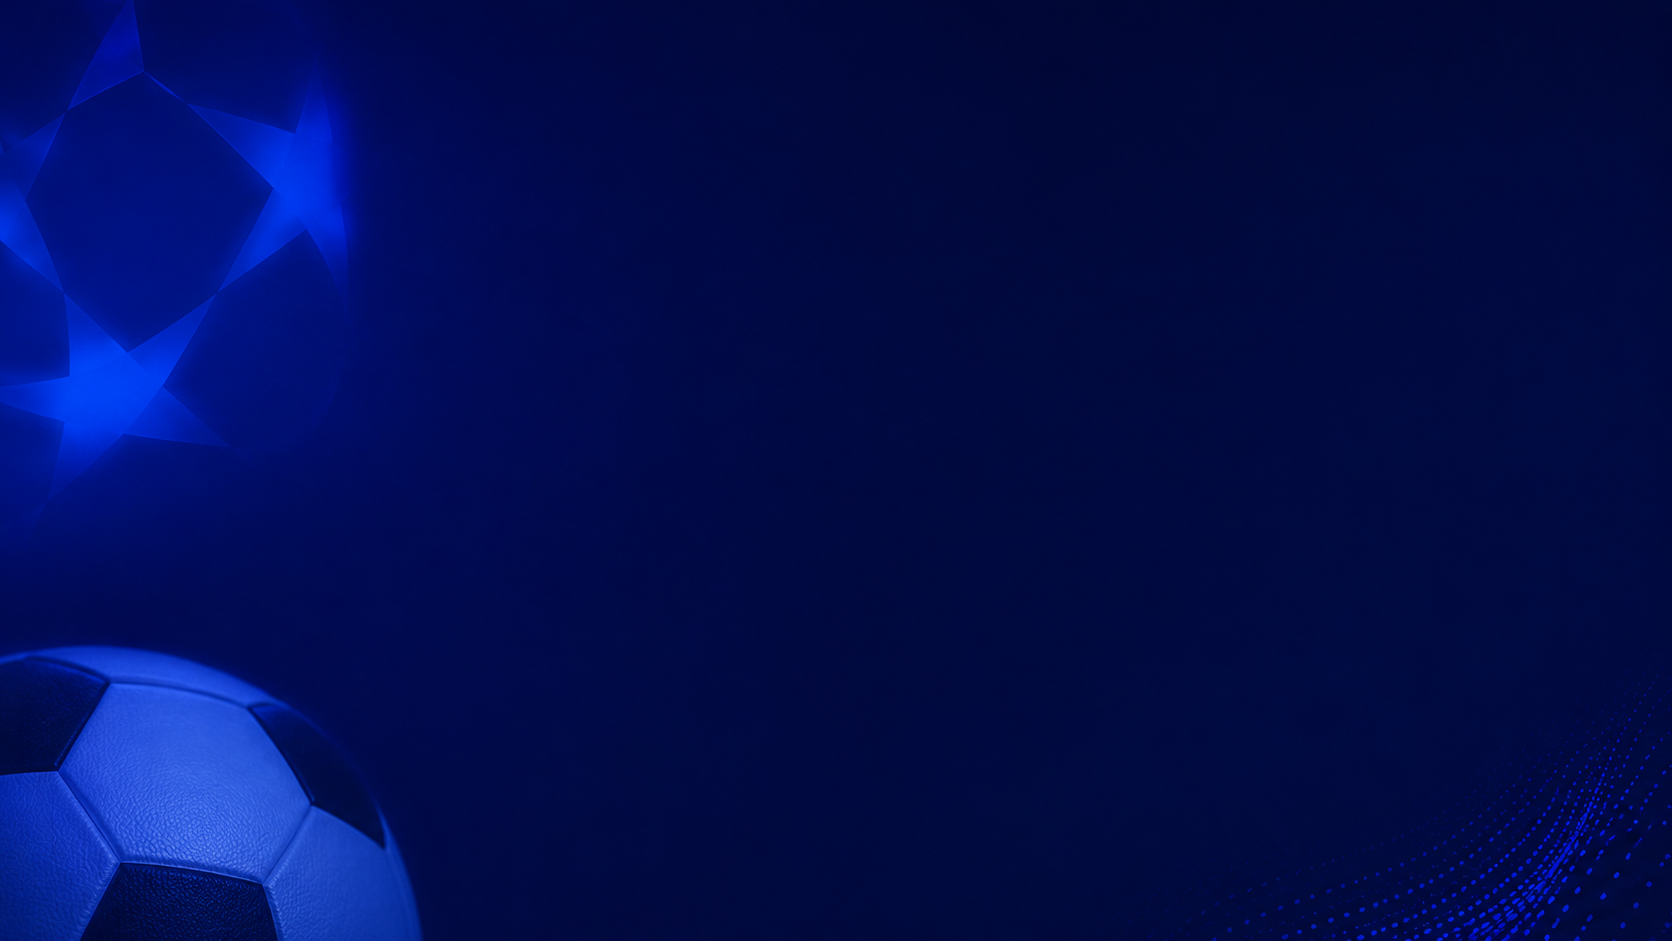
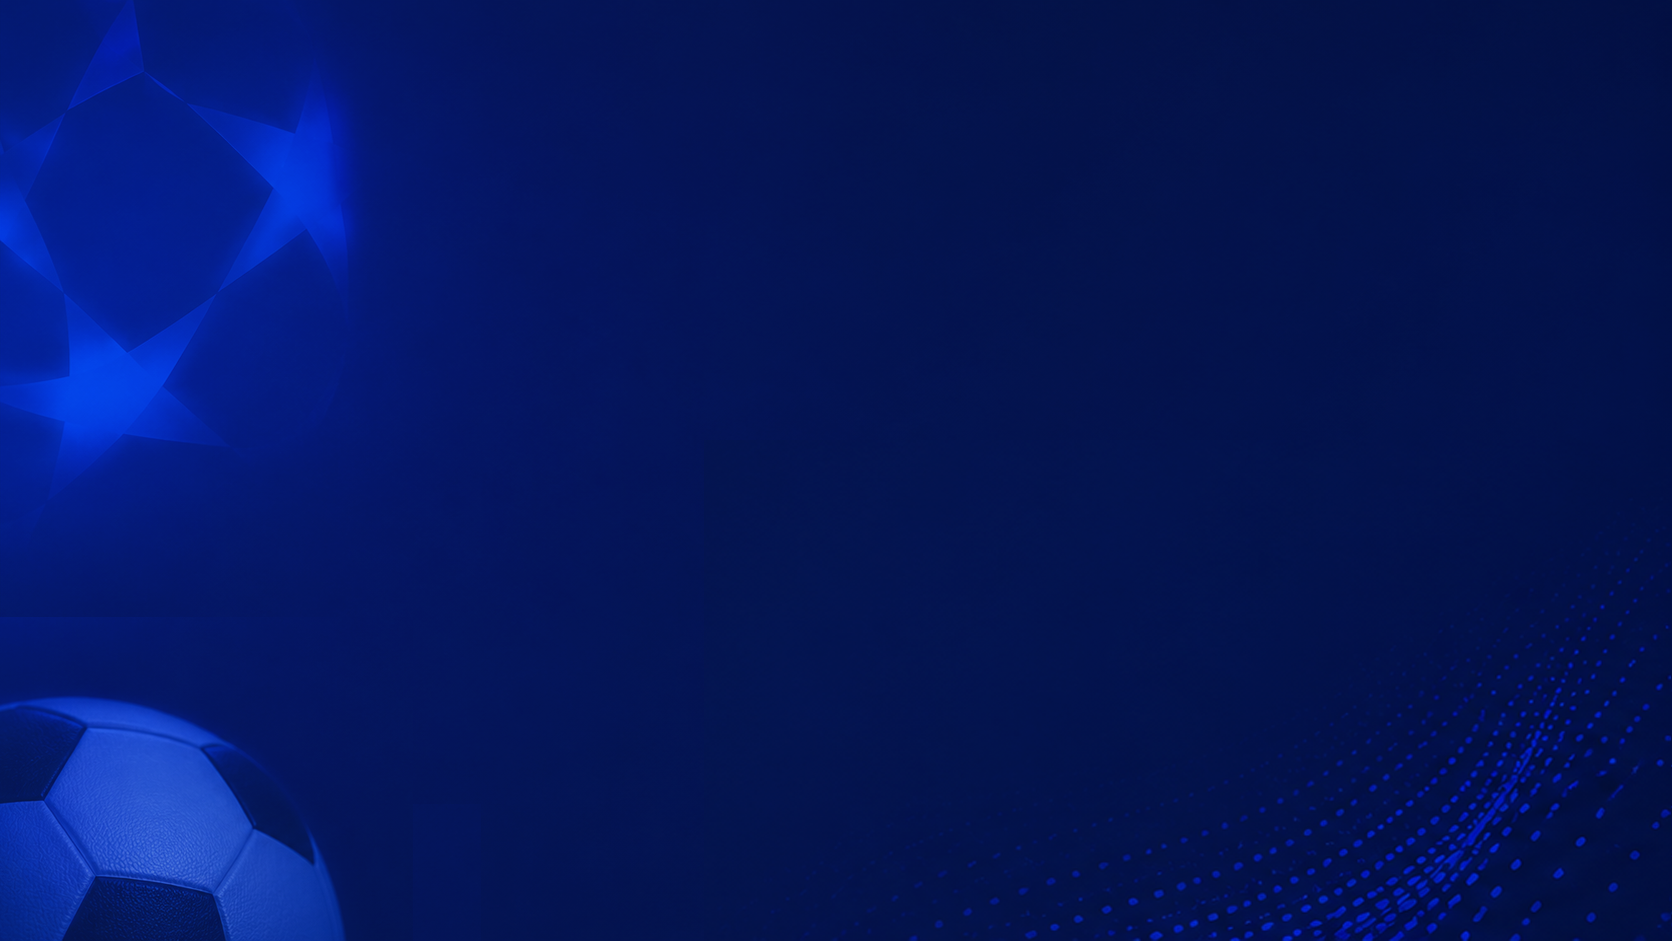
fix changes

diff --git a/style.css b/style.css
@@ -3,15 +3,17 @@
     padding: 0;
 }
 body{
-    background-image: url(pic/bg.png);
+    /*background-image: url(pic/bg2.png);
     background-repeat: no-repeat;
-    background-size: cover;
-    font-family: Pinar-FD, sans-serif;
+    background-size: cover;*/
+    font-family: Pinar-FD;
     }
 
 .main{
-    /*background: linear-gradient(135deg, #2f5cbc 0%,#103b97 30%,#0c307c 65%,#052155 100%);*/
-    padding: 50px;
+   /* background: linear-gradient(135deg, #2f5cbc 0%,#103b97 30%,#0c307c 65%,#052155 100%);*/
+   background-color: #000758;
+   height: 800px;
+   padding: 50px;
 }
 .div1{
     direction: ltr;
